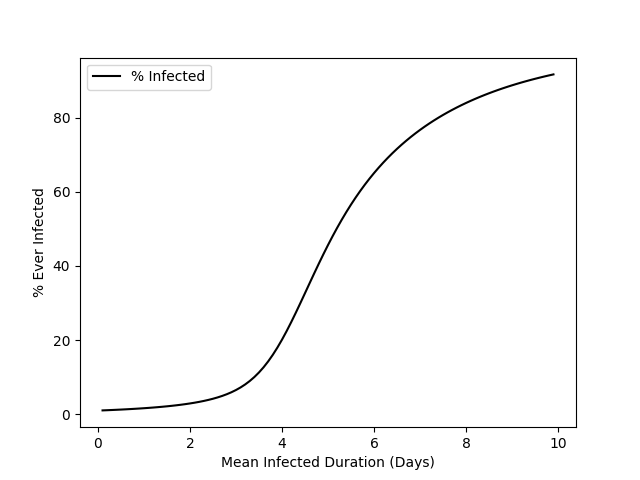
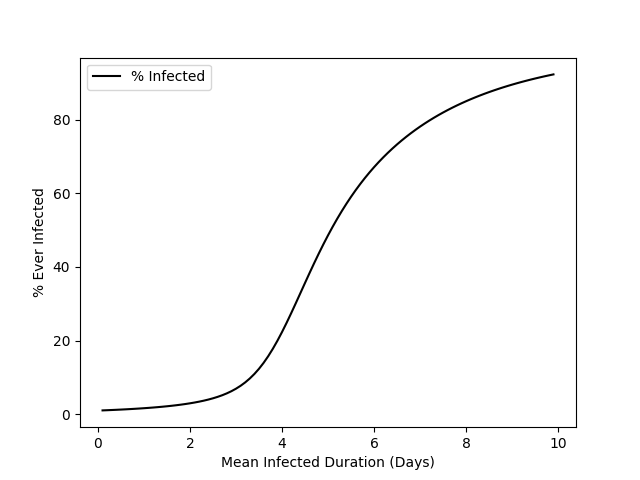
changing variables

diff --git a/hrenard_program3.py b/hrenard_program3.py
@@ -9,7 +9,7 @@ def runsim(
 	contact_factor = .8,                          		# (contact / day) / person
 	mean_incubation = 9,                               	# day
 	mean_quarantine = 15,					# day
-	mean_death = 25,                                 	# day
+	mean_death = 30,                                 	# day
 	plot = True):
 	
 	recovery_factor = 1 / mean_infectious_duration    	# 1 / day
